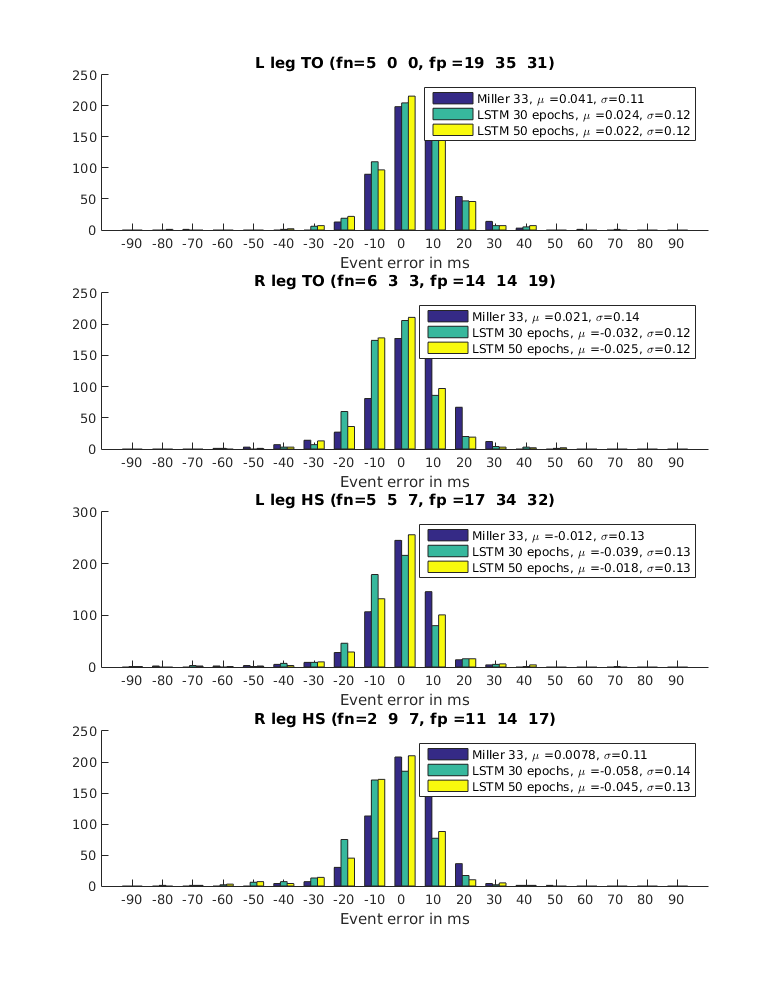
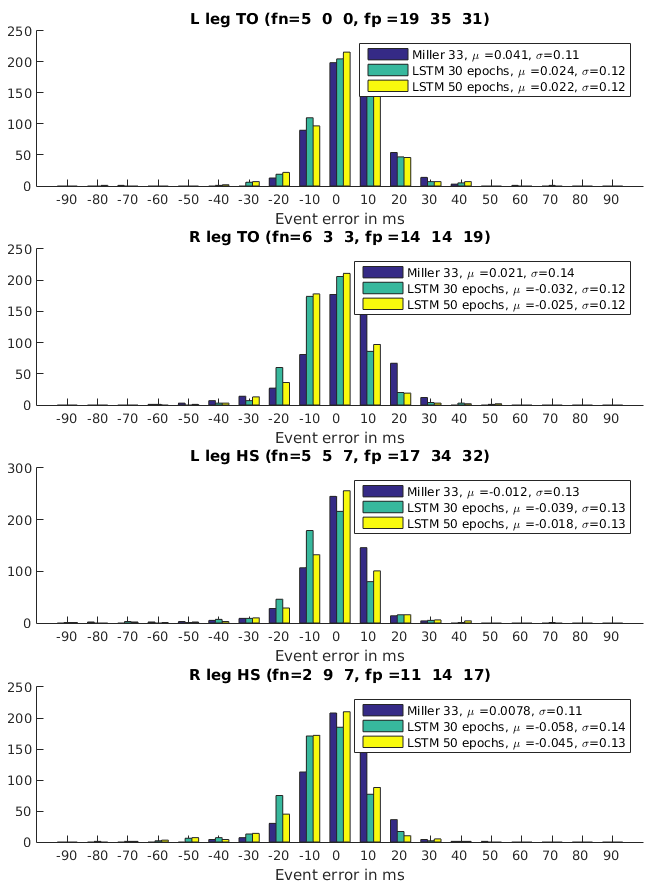
Started with concl

diff --git a/paper/paper.tex b/paper/paper.tex
@@ -373,14 +373,14 @@ Once we settled on parameters for our network, we trained it for 100 epochs and 
 
 \begin{figure}[H]
  \centering
- \includegraphics[scale=.3]{./figures/Test1_1Train1_2Compare.png}
+ \includegraphics[scale=.31]{./figures/Test1_1Train1_2Compare.png}
  % Test1_1Train1_2Compare.png: 0x0 pixel, 300dpi, 0.00x0.00 cm, bb=
  \caption{Comparison of Miller vs. LSTM network for various training intervals, for dataset 1.}
  \label{fig:halfAndHalfTrials}
 \end{figure}
 
 \subsection{Dataset 2}
-The second dataset was designed to assess how well the methods generalize to new users. We performed the same treatment as for the previous dataset, and results are shown on \ref{fig:halfAndHalfUsers}.
+The second dataset was designed to assess how well the methods generalize to new users. We performed the same treatment as for the previous dataset, and results are shown on \ref{fig:halfAndHalfUsers}. From these results we can see that the LSTM network achieves better accuracy than Miller, with less false positives and false negatives. However, the false positive rate is somewhat high for the LSTM network too. 
 
 
 \begin{figure}[H]
@@ -393,6 +393,8 @@ The second dataset was designed to assess how well the methods generalize to new
 
 \section{Conclusion and Future Work}
 \label{sec:Conclusion and Future Work}
+\subsection{Conclusions}
+The results from our initial implementation of the LSTM network are promising. Compared to the baseline methods we used for comparison, we achieved less confusion (false positive and false negative rate) and similar or better accuracy, measured through bias and quadratic error. This is
 
 \subsection{Future work}
 Although our results are promising and seem to improve the current state-of-the-art, there a few things that still can be done to assess and improve performance:
